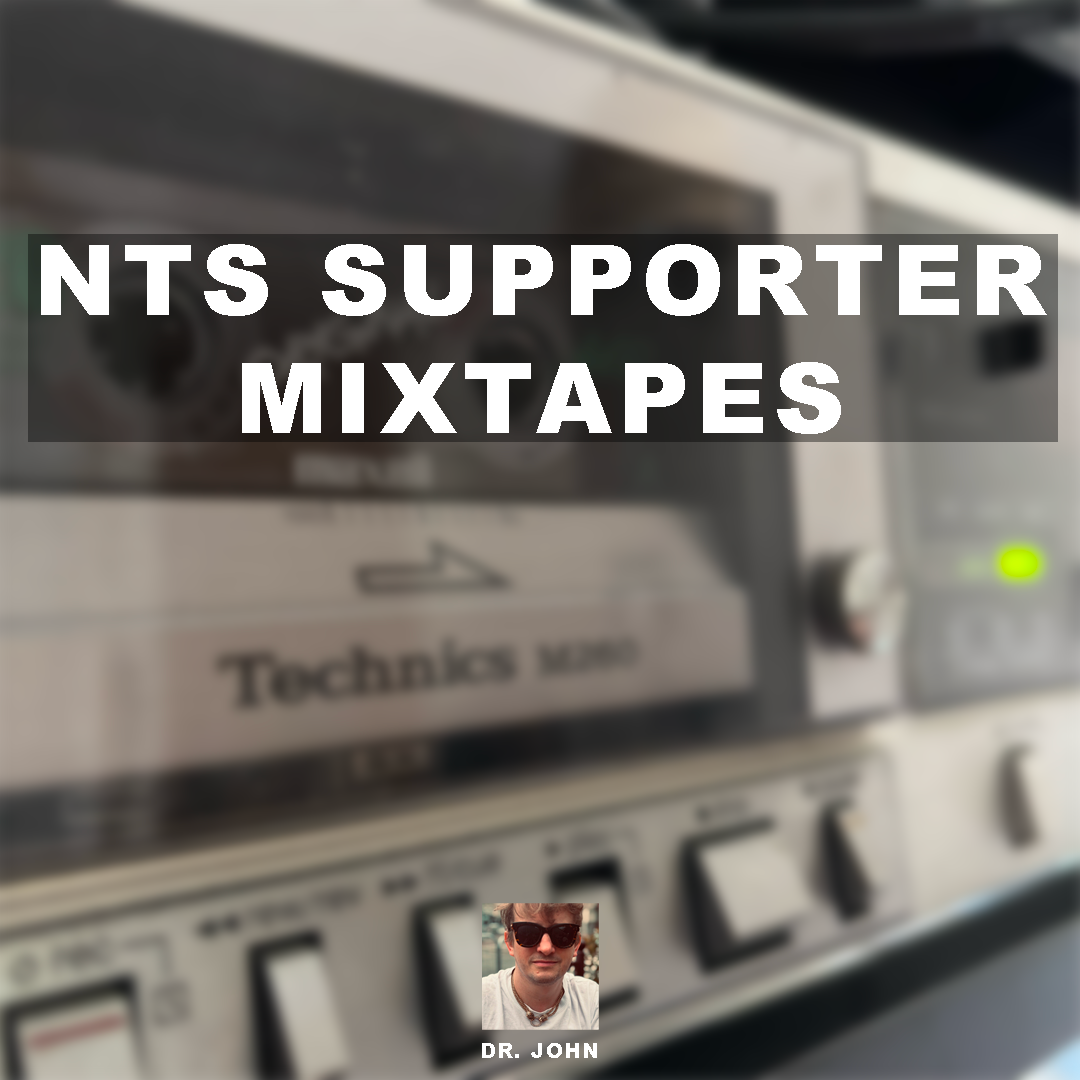
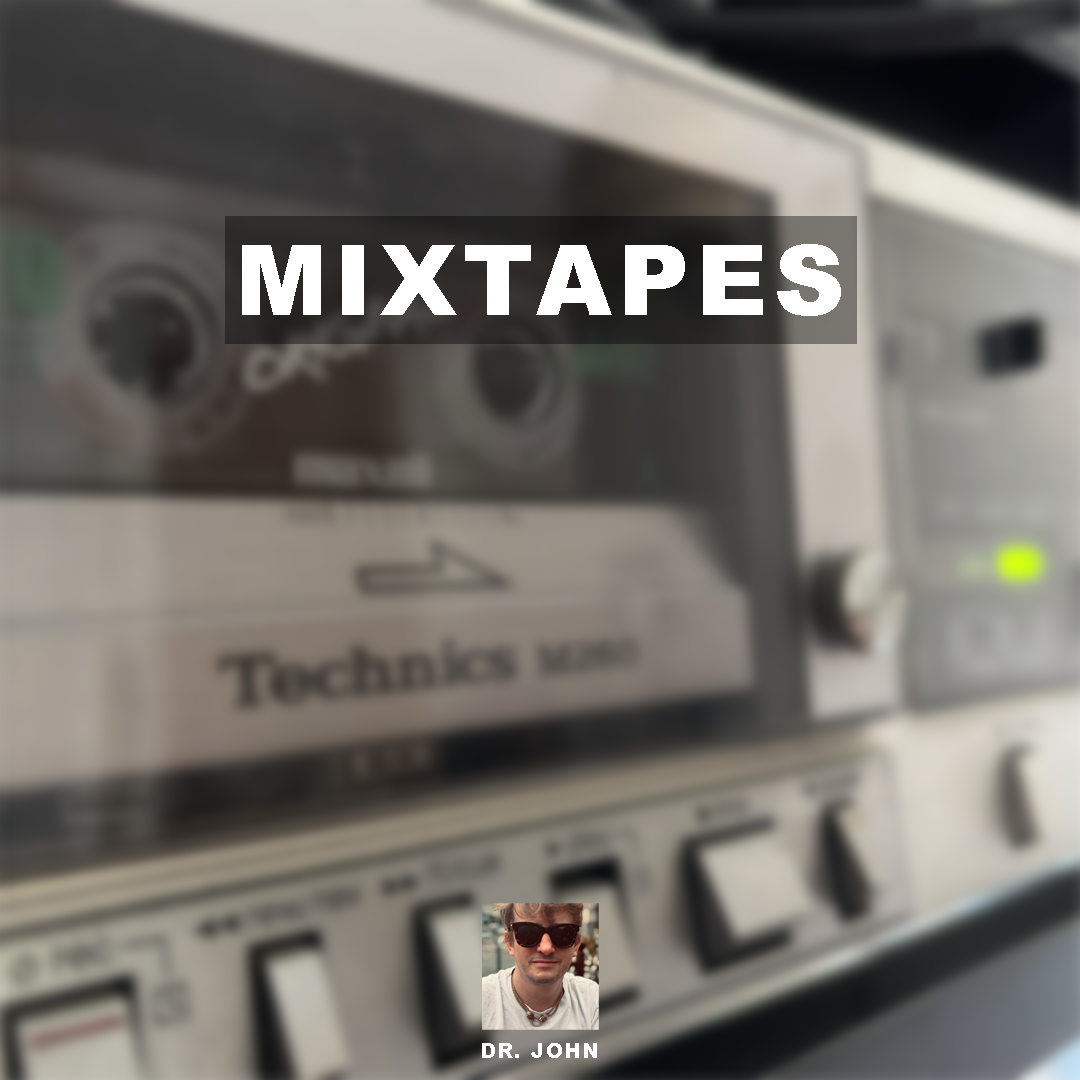
Mise à jour des pages

Changed region(s): [[0.0, 0.1833, 0.9778, 0.4278], [0.9167, 0.4889, 0.9778, 0.55]]

diff --git a/mixtapes.html b/mixtapes.html
@@ -3,8 +3,8 @@
 <head>
   <meta charset="utf-8" />
   <meta name="viewport" content="width=device-width, initial-scale=1" />
-  <title>NTS Supporter — Mixtapes | Le Chat Noir</title>
-  <meta name="description" content="Toutes les mixtapes proposées à NTS Supporter : acceptées, diffusées, en attente ou refusées. Un journal transparent des sélections." />
+  <title>Mixtapes | Le Chat Noir</title>
+  <meta name="description" content="Sélections, montages et émissions envoyées aux radios : diffusées, refusées ou en attente. Une archive transparente pour tout écouter." />
   <link href="https://cdn.jsdelivr.net/npm/bootstrap@5.3.3/dist/css/bootstrap.min.css" rel="stylesheet" />
   <link href="https://cdnjs.cloudflare.com/ajax/libs/font-awesome/6.5.2/css/all.min.css" rel="stylesheet" />
   <style>
@@ -61,8 +61,8 @@
 
   <main class="container py-5">
     <header class="text-center mb-4">
-      <h1 class="display-6 fw-bold">NTS Supporter — Mixtapes</h1>
-      <p class="text-light-emphasis mt-2">Archives transparentes des propositions faites à NTS : sélectionnées, à l’antenne ou non. Un lieu unique pour tout écouter.</p>
+      <h1 class="display-6 fw-bold">Mixtapes</h1>
+      <p class="text-light-emphasis mt-2">Sélections, montages et émissions envoyées aux radios. Diffusées, refusées ou en attente : tout reste archivé ici.</p>
       <div class="wave-divider"></div>
     </header>
 
@@ -76,10 +76,10 @@
         <div class="d-flex flex-wrap gap-2 mb-3">
           <span class="badge-tag"><i class="fa-solid fa-radio me-2"></i>Mixtapes</span>
           <span class="badge-tag"><i class="fa-solid fa-rotate-left me-2"></i>Replay</span>
-          <span class="badge-tag"><i class="fa-solid fa-tower-broadcast me-2"></i>NTS Supporter</span>
+          <span class="badge-tag"><i class="fa-solid fa-tower-broadcast me-2"></i>Radios</span>
         </div>
-        <p class="lead text-light">Sélection, refus, attente : on garde tout. Cette page consigne les mixtapes envoyées à NTS, pour suivre le parcours des idées et l’état des diffusions.</p>
-        <p class="text-light-emphasis">Chaque entrée mentionne la saison, le statut et, si disponible, un lien d’écoute (NTS, Mixcloud).</p>
+        <p class="lead text-light">Sélection, refus, attente : on garde tout. Cette page consigne des mixtapes au sens large — sélections, montages, émissions parlées ou hybrides — proposées à différentes radios (NTS, RCV Radio, et d’autres à venir).</p>
+        <p class="text-light-emphasis">Chaque entrée mentionne la saison, le statut et, si disponible, un lien d’écoute (radio, Mixcloud, Bandcamp ou archive locale).</p>
         <div class="d-flex flex-wrap gap-2 mt-4">
           <a class="btn btn-outline-light btn-sm" href="index.html"><i class="fa-solid fa-arrow-left me-2"></i>Retour à l’accueil</a>
         </div>
@@ -90,6 +90,48 @@
       <div class="col-12 col-md-8">
         <h2 class="h5 mb-3">Dernières entrées</h2>
         <div class="list-group">
+          <!-- Les racines du Nord — Janvier 2026 · RCV Radio (My Favorite Everything #55) -->
+          <div class="list-group-item bg-transparent text-light border-secondary">
+            <div class="d-flex w-100 justify-content-between align-items-center">
+              <h3 class="h6 mb-1">Les racines du Nord — Janvier 2026</h3>
+              <span class="status status-accepted"><i class="fa-solid fa-circle-check me-2"></i>Diffusée</span>
+            </div>
+            <p class="mb-1 text-light-emphasis">Panorama de deux heures d’underground local pointu sur <a href="https://www.rcv-lille.radio-website.com/emissions/vinyle-mix-indie-oldies-and-rareties-98" target="_blank" rel="noopener" class="link-light text-decoration-underline">RCV Radio</a>, pour l’émission <em>My Favorite Everything</em> (épisode 55). Une adaptation plus longue de « Hidden Roots », avec de la parole, des repères, et un fil narratif plus radiophonique.</p>
+            <a href="https://www.mixcloud.com/Dr_John_B/rcv-radio-mfe55-les-racines-du-nord-par-dr-john/" target="_blank" rel="noopener" class="btn btn-ghost btn-sm mt-2 me-2">
+              <i class="fa-solid fa-play me-2"></i>Écouter sur Mixcloud
+            </a>
+            <button class="btn btn-outline-light btn-sm mt-2" type="button" data-bs-toggle="collapse" data-bs-target="#trk-racines-nord-rcv" aria-expanded="false" aria-controls="trk-racines-nord-rcv">
+              <i class="fa-solid fa-list-ul me-2"></i>Tracklist
+            </button>
+            <div class="collapse mt-2" id="trk-racines-nord-rcv">
+              <div class="card card-body bg-transparent text-light border-secondary">
+                <ol class="mb-0 ps-3">
+                  <li>Drive with a dead girl — Twin pics</li>
+                  <li>M.O.S.T. — Acapulco</li>
+                  <li>Exposé — Cire</li>
+                  <li>Fufufu! — Mehdi Frère Curry VS Braie Derrick Full Sarah</li>
+                  <li>Jour J Mental — Le mal de la fosse</li>
+                  <li>Tang — She died in June</li>
+                  <li>Vacant DSC — Aucun nom</li>
+                  <li>Gravier — Suzie</li>
+                  <li>Helen and the boys — Docteur</li>
+                  <li>Shoot — Crazy but real</li>
+                  <li>Kitchen Tool Set — Sabordage</li>
+                  <li>Le Migou — Broyer du noir</li>
+                  <li>Jeanne — Fuir</li>
+                  <li>Joobiseaz — Cramps</li>
+                  <li>Deodorant — Dreaming of me</li>
+                  <li>Chevaline — Ghost of plane</li>
+                  <li>Fantasy — Gratitude</li>
+                  <li>Saki et Bandzetto — À Jules</li>
+                  <li>Flash Dog Duke Silver — Rochdie des Cartes est une chasseuse de primes de l'espace</li>
+                  <li>Justice Beaver — Live au VJ Fest</li>
+                  <li>Knobber — Gratouille</li>
+                  <li>When day chokes the night — Les oiseaux sont à l’eau</li>
+                </ol>
+              </div>
+            </div>
+          </div>
           <!-- New entry: A cat, a window, the rain — Winter 2025 · Peace -->
           <div class="list-group-item bg-transparent text-light border-secondary">
             <div class="d-flex w-100 justify-content-between align-items-center">

diff --git a/index.html b/index.html
@@ -209,8 +209,8 @@
                 <img src="PICS/ntsradiosupporter.png" alt="Visuel — NTS Supporter Mixtapes" loading="lazy" />
                 <div class="corner-badge"><i class="fa-solid fa-radio"></i> Mixtapes</div>
               </div>
-              <h2 class="h4 text-white mb-2">NTS Supporter — Mixtapes</h2>
-              <p class="mb-4 text-light">Toutes les mixtapes liées à NTS : sélectionnées, diffusées, ou même refusées — un fil d’archives transparent.</p>
+              <h2 class="h4 text-white mb-2">Mixtapes</h2>
+              <p class="mb-4 text-light">Sélections, montages et émissions envoyées aux radios : diffusées, refusées ou en attente. Tout reste archivé ici.</p>
               <div class="mt-auto d-flex gap-2 align-items-center">
                 <span class="btn btn-ghost btn-sm"><i class="fa-solid fa-headphones"></i> Écouter</span>
               </div>
